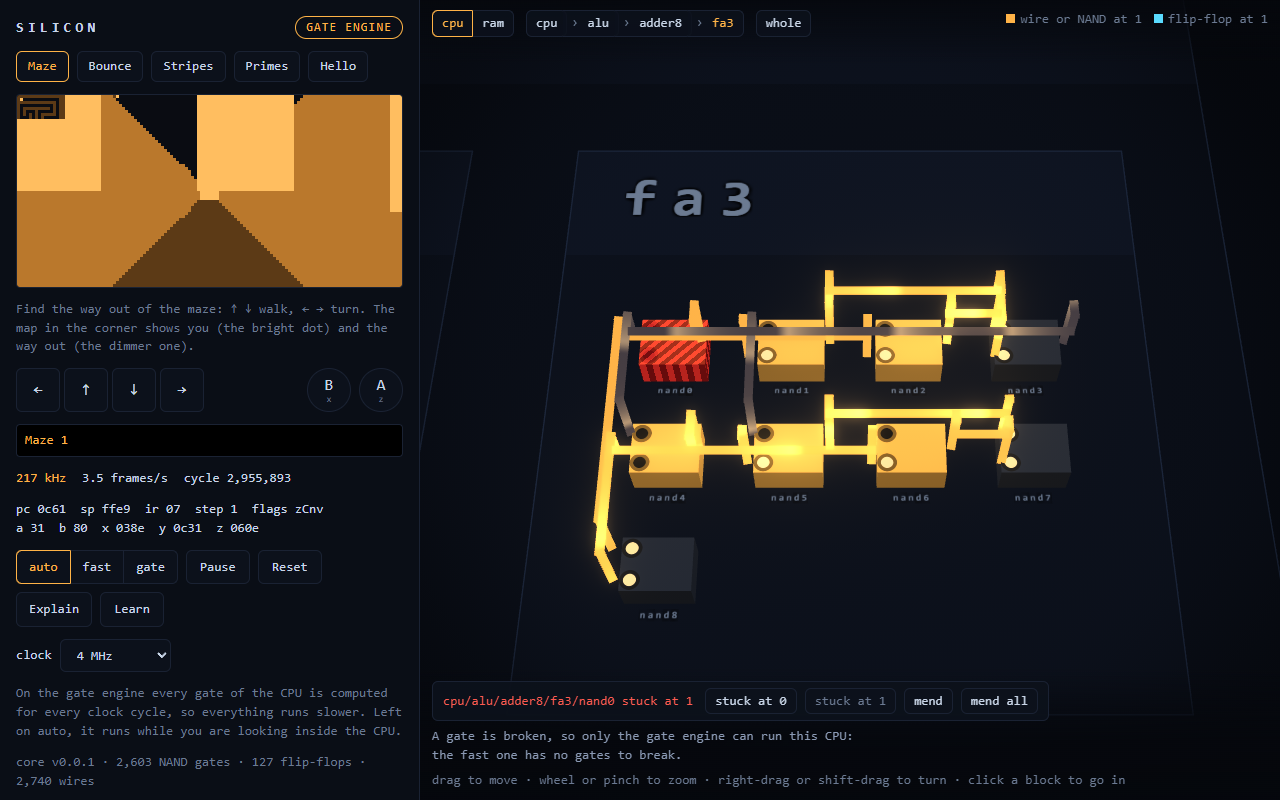
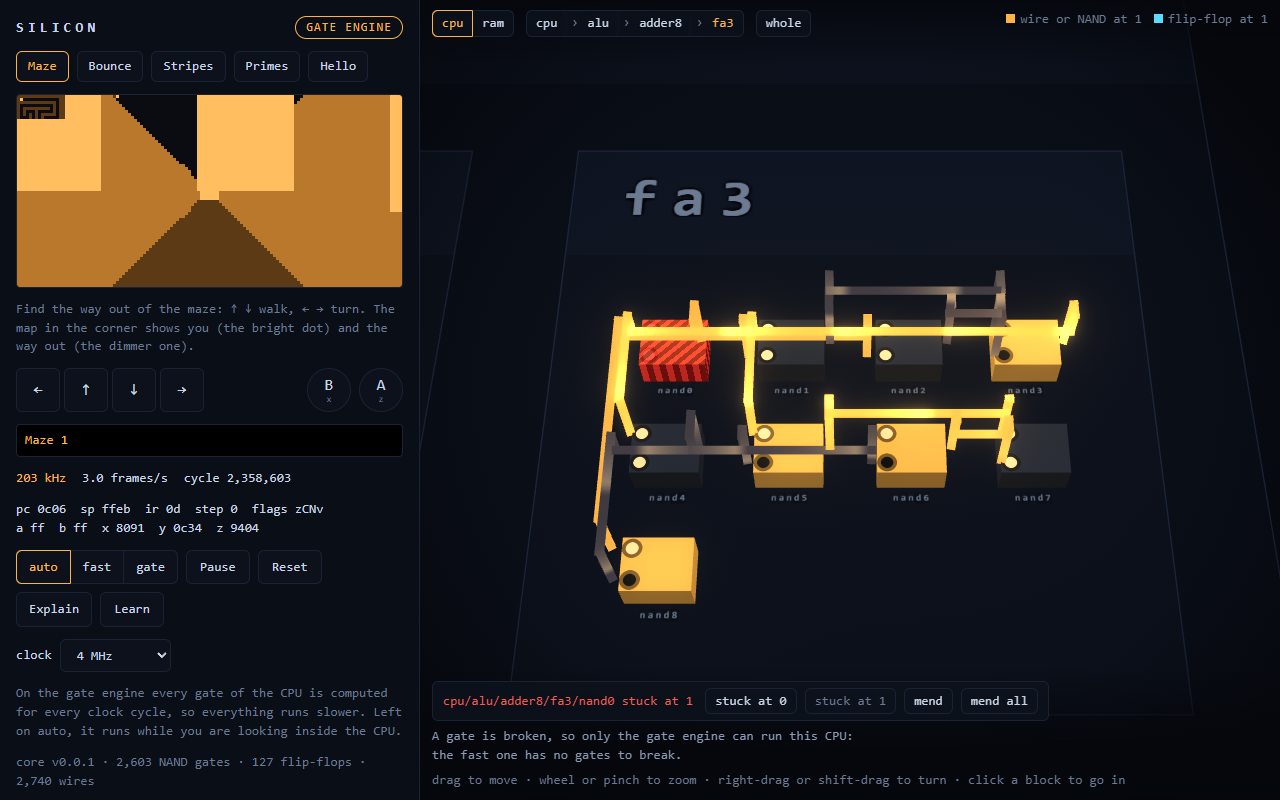
Make the whole CPU readable from afar, and spare slow cards the glow
Seen whole, the CPU was a tangle of wires that hid its own blocks, worst
on a phone, where it is the first thing on the page. A wire thinner than
the pixel-wide ribbon drawn for it now covers only its share of that
ribbon, and its light likewise: from afar the wires are faint traces with
pulses moving along them, and the blocks and their names are what is
seen. From close nothing changes.

The glow was measured on one good graphics card only. The page now
watches the pace of its pictures and turns the glow off, saying so, if
half of 45 in a row take over 40 ms (scene/pace.ts, tested; checked in
Chrome with the processor slowed forty times). ?glow=on keeps it, which
the script that makes the README's animation uses.

PROGRESS records what was driven in Firefox and WebKit today and what is
still unverified, and its list of limitations no longer names things that
were built since. shots.mjs also takes the repository's social preview.

diff --git a/web/src/scene/view.ts b/web/src/scene/view.ts
@@ -474,6 +474,8 @@ const WIRE_FRAGMENT = /* glsl */ `
   varying float vPhase;
   varying float vWide;
   const vec3 HOT = vec3(1.0, 0.80, 0.46);
+  // The least a wire covers of the ribbon drawn for it, however thin it is.
+  const float COVER_LEAST = 0.1;
   void main() {
     bool driven = vAlong.x >= 0.0;
     // While a step is played back: gate delays since the turn of the gate
@@ -487,8 +489,6 @@ const WIRE_FRAGMENT = /* glsl */ `
     // A wire that has been switching is a little brighter all along,
     // whatever its level this instant.
     if (reached) colour += vec3(0.95, 0.50, 0.12) * vBusy * 0.3;
-    // One too thin to be seen properly sinks towards the floor instead of sparkling.
-    colour = mix(vec3(0.05, 0.07, 0.11), colour, mix(0.45, 1.0, vCover));
 
     // Light given off, brighter than the picture's white so that it glows.
     float light = 0.0;
@@ -512,9 +512,14 @@ const WIRE_FRAGMENT = /* glsl */ `
     }
     // A wire seen from close covers many pixels, and so would its light: it
     // is given off per length of wire, not per pixel of picture.
-    colour += HOT * light * mix(0.5, 1.0, vCover) * mix(1.0, 0.24, smoothstep(1.5, 9.0, vWide));
-    // A wire thinner than the pixel-wide ribbon drawn for it covers a part of it only.
-    gl_FragColor = vec4(stale(colour), vAlpha * mix(0.55, 1.0, vCover));
+    vec3 given = HOT * light * mix(1.0, 0.24, smoothstep(1.5, 9.0, vWide));
+    // A wire thinner than the pixel-wide ribbon drawn for it covers only a
+    // part of that ribbon: its colour is laid on by that much, and its
+    // light, a little more generously, likewise. So from afar, where a
+    // thousand wires cross the picture, they are faint traces and what is
+    // seen is what moves along them; from close they are solid.
+    float cover = vAlpha * max(vCover, COVER_LEAST);
+    gl_FragColor = vec4(stale(colour * cover + given * vAlpha * mix(0.3, 1.0, vCover)), cover);
   }
 `;
 
@@ -920,7 +925,13 @@ export class SceneView {
       // readable where a wire crosses a name.
       add(
         geometry,
-        material(WIRE_VERTEX, WIRE_FRAGMENT, { side: THREE.DoubleSide, transparent: true, depthWrite: false }),
+        // (The shader gives colour already multiplied by how much of the pixel it covers.)
+        material(WIRE_VERTEX, WIRE_FRAGMENT, {
+          side: THREE.DoubleSide,
+          transparent: true,
+          premultipliedAlpha: true,
+          depthWrite: false,
+        }),
         3.5,
       );
     }
@@ -965,9 +976,15 @@ export class SceneView {
     this.mark.visible = false;
   }
 
+  /**
+   * Draw what gives off light with a glow around it, where the graphics
+   * driver can. Turned off, the scene is drawn straight to the screen.
+   */
+  glow = true;
+
   /** Is what gives off light drawn with a glow around it? */
   get glows(): boolean {
-    return this.bloom !== undefined;
+    return this.bloom !== undefined && this.glow;
   }
 
   /** Is something in the picture moving by itself, so that it must be drawn again? */
@@ -1146,11 +1163,12 @@ export class SceneView {
     }
 
     const timed = this.beginTiming();
-    if (this.bloom) {
+    if (this.bloom && this.glow) {
       this.renderer.setRenderTarget(this.bloom.scene);
       this.renderer.render(this.scene, this.eye);
       this.bloom.render(GLOW);
     } else {
+      this.renderer.setRenderTarget(null);
       this.renderer.render(this.scene, this.eye);
     }
     if (timed) this.endTiming();

diff --git a/web/src/scene/pace.test.ts b/web/src/scene/pace.test.ts
@@ -1,0 +1,56 @@
+import { describe, expect, it } from 'vitest';
+import { Pace, PACE_WINDOW, PAUSE_MS, SLOW_MS } from './pace';
+
+/** Draw `count` pictures `gap` ms apart, starting at `from`; the times at which the pace said "slow". */
+function draw(pace: Pace, from: number, gap: number, count: number): number[] {
+  const told: number[] = [];
+  for (let i = 0; i < count; i++) if (pace.drew(from + i * gap)) told.push(i);
+  return told;
+}
+
+describe('the pace of the pictures', () => {
+  it('is never slow at sixty or at thirty pictures a second', () => {
+    expect(draw(new Pace(), 0, 16.7, 1000)).toEqual([]);
+    expect(draw(new Pace(), 0, 33.4, 1000)).toEqual([]);
+  });
+
+  it('is slow, once, after a window of slow pictures', () => {
+    // The first picture has none before it: the window is full one later.
+    expect(draw(new Pace(), 0, SLOW_MS + 20, 500)).toEqual([PACE_WINDOW]);
+  });
+
+  it('is not slow for a few hitches among quick pictures', () => {
+    const pace = new Pace();
+    let now = 0;
+    let told = false;
+    for (let i = 0; i < 600; i++) {
+      now += i % 5 === 0 ? 120 : 16.7;
+      told ||= pace.drew(now);
+    }
+    expect(told).toBe(false);
+  });
+
+  it('takes a long gap for a pause, and starts again after it', () => {
+    const pace = new Pace();
+    // Slow pictures, but never a whole window of them between two pauses.
+    let now = 0;
+    let told = false;
+    for (let burst = 0; burst < 20; burst++) {
+      for (let i = 0; i < PACE_WINDOW - 1; i++) told ||= pace.drew((now += SLOW_MS + 30));
+      now += PAUSE_MS + 1;
+    }
+    expect(told).toBe(false);
+    // Left to draw without a pause, the same pictures are found slow.
+    expect(draw(pace, now, SLOW_MS + 30, 200).length).toBe(1);
+  });
+
+  it('becomes slow when quick pictures turn slow', () => {
+    const pace = new Pace();
+    expect(draw(pace, 0, 16.7, 300)).toEqual([]);
+    const told = draw(pace, 300 * 16.7, 80, 200);
+    expect(told.length).toBe(1);
+    // Once more than half the window is slow.
+    expect(told[0]).toBeGreaterThan(PACE_WINDOW / 2 - 2);
+    expect(told[0]).toBeLessThan(PACE_WINDOW);
+  });
+});

diff --git a/web/src/main.ts b/web/src/main.ts
@@ -28,6 +28,7 @@ import { gateCountText } from './scene/labels';
 import { GATE_TOP, gateRect, rectOf } from './scene/layout';
 import { focusModule } from './scene/lod';
 import { Navigator } from './scene/navigator';
+import { Pace } from './scene/pace';
 import type { Hit } from './scene/pick';
 import { engineFor, engineNote, parseEngineMode, samplingFor, type EngineMode } from './scene/policy';
 import { gatePath, moduleAt, resolvePath } from './scene/tree';
@@ -75,10 +76,14 @@ interface Scene {
   levels: () => Uint8Array | undefined;
 }
 /**
- * What gives off light is drawn with a glow around it, unless the link says
- * not to (`?glow=off`, for a graphics card that finds it heavy).
+ * What gives off light is drawn with a glow around it. A graphics card that
+ * finds it heavy is spared it: the page watches the pace of its pictures
+ * and turns the glow off if they come slowly. A link can settle it either
+ * way: `?glow=off`, `?glow=on`.
  */
 const GLOW = link.get('glow') !== 'off';
+const pace = link.get('glow') === 'on' || !GLOW ? undefined : new Pace();
+document.body.dataset.glow = GLOW ? 'on' : 'off';
 /** The CPU. */
 let scene: Scene | undefined;
 /** The memory made of gates. */
@@ -375,6 +380,13 @@ function frame(now: number): void {
       // For the page checks: whether a step is being played back.
       if (current.view.replaying) document.body.dataset.replay = '';
       else delete document.body.dataset.replay;
+      if (current.view.glows && pace?.drew(now)) {
+        // Too slow with the glow: without it from here on, and say so.
+        for (const each of [scene, ramScene]) if (each) each.view.glow = false;
+        document.body.dataset.glow = 'off';
+        el('status').textContent += ' · glow off: the pictures were coming slowly (?glow=on keeps it)';
+        stale = true;
+      }
     }
   }
   requestAnimationFrame(frame);

diff --git a/web/src/scene/pace.ts b/web/src/scene/pace.ts
@@ -1,0 +1,44 @@
+/**
+ * Whether pictures are coming too slowly. The glow costs the graphics card
+ * a few milliseconds a picture on a card made for it, and far more on one
+ * that is not; where it makes the scene stutter, the scene is better
+ * without it. This watches the time between pictures and says, once, that
+ * they are slow.
+ *
+ * The page only draws when there is something new to show, so a long gap
+ * between two pictures is a pause, not a slow picture, and is left out.
+ */
+
+/** Pictures looked at before deciding. */
+export const PACE_WINDOW = 45;
+/** Slow: half of them took longer than this, in milliseconds (25 pictures a second). */
+export const SLOW_MS = 40;
+/** A gap longer than this, in milliseconds, is the page having had nothing to draw. */
+export const PAUSE_MS = 400;
+
+export class Pace {
+  private readonly gaps: number[] = [];
+  private last = -1;
+  private told = false;
+
+  /**
+   * A picture was drawn at `now` (milliseconds). True the one time the last
+   * `PACE_WINDOW` pictures in a row are found slow.
+   */
+  drew(now: number): boolean {
+    const gap = this.last < 0 ? -1 : now - this.last;
+    this.last = now;
+    if (this.told || gap < 0) return false;
+    if (gap > PAUSE_MS) {
+      // What came before the pause says nothing about what comes after it.
+      this.gaps.length = 0;
+      return false;
+    }
+    this.gaps.push(gap);
+    if (this.gaps.length < PACE_WINDOW) return false;
+    const median = [...this.gaps].sort((a, b) => a - b)[PACE_WINDOW >> 1]!;
+    this.gaps.shift();
+    this.told = median > SLOW_MS;
+    return this.told;
+  }
+}

diff --git a/docs/PROGRESS.md b/docs/PROGRESS.md
@@ -55,6 +55,30 @@ Done (2026-11-17): **the look of the scene**, ADR 0016.
   graphics card a picture with the glow, 0.2 ms of the main thread.
 - Tests: Rust 297, Vitest 144, page checks 17; fmt, clippy, typecheck clean.
 
+Done after that, the same day:
+
+- **The whole CPU from afar is readable.** A wire thinner than the
+  pixel-wide ribbon drawn for it now covers only its share of that ribbon,
+  and its light likewise: the thousand wires between the blocks are faint
+  traces with pulses moving along them, and the blocks and their names are
+  what is seen. From close nothing changes. It matters most on a phone,
+  where the first picture was an orange tangle.
+- **The glow turns itself off where it is heavy** (`scene/pace.ts`, tested):
+  if half of 45 pictures in a row take over 40 ms, the scene is drawn
+  without it from then on and the page says so. `?glow=on` keeps it,
+  `?glow=off` never starts it. Checked by slowing the page's processor
+  forty times in Chrome: off after a few seconds; at full speed it stays on.
+- **Other browsers, driven for real** (Playwright with its Firefox and
+  WebKit, installed outside the repository): eleven steps each on Firefox,
+  WebKit, and WebKit as an iPhone 13 with touch. Every program runs, keys
+  move the game, a link leads to a gate, the wheel zooms, a click or a tap
+  flies into a block, a step is played back, a gate is broken and mended,
+  the memory writes and reads, the tour walks to its end, nothing is wider
+  than the window. All pass, with the glow, and nothing on the console.
+  Not the same as Safari on a real iPhone: see the limitations.
+- CI passed on Linux for the commit before this one, with the two new
+  page checks in software rendering.
+
 What follows is the note of 2026-11-15, kept for the record of what was
 tried:
 
@@ -310,6 +334,8 @@ Each has a regression test.
 
 ## Known limitations
 
+As of 2026-11-17.
+
 - **Compiled code is naive.** Every use of a variable is a load from the
   stack; there is no register allocation. Enough for the game's logic (3%
   of a frame), not for inner loops, which is what `asm { … }` is for.
@@ -319,29 +345,18 @@ Each has a regression test.
   moves but the player. 256 levels, then they repeat.
 - On the gate engine a level change takes about three seconds (the shutter
   is paced by counting) and digging a maze a third of a second.
-- **The page check is still an ad-hoc script outside the repository.** It
-  has now found a class of bug the test suite could not see. It belongs in
-  the repository and in CI (Playwright, M4).
 - The page has no source or disassembly view. The toolchain already
   produces the map from addresses to source lines (`Assembly::lines`).
 - State reaches the page by copying (ADR 0004's fallback path); the
-  `SharedArrayBuffer` path is not implemented.
-- No wire-activity buffer: the gate view shows the level at the instant of
-  each frame, which at 270 kHz is a sample, not everything that happened.
-- The gate view is a flat grid; its labels overlap on a phone. No zoom, no
-  wires drawn, no hierarchy: M4.
-- Engine switching is manual. Switching by camera distance arrives with M4.
-
-## Next: M4
-
-1. Prototype the hierarchical scene and the LOD cross-fade on a synthetic
-   module tree before anything else (risk 1).
-2. Layout from the module tree: deterministic packing, hints for the top
-   levels. Camera-relative rendering.
-3. Wires as an instanced mesh; the wire-activity buffer in the worker.
-4. Engine switching by camera distance.
-5. Playwright: the checks of the ad-hoc script (loads, every program runs,
-   the screen is still while nothing is held, no console errors), in CI.
+  `SharedArrayBuffer` path is not implemented. The copy is about 25 kB a
+  frame and has never shown up in a measurement.
+- The wires are a drawing of what is joined to what, not a routed chip:
+  wires of the same layer cross and overlap (`route.ts`).
+- From afar on `auto`, the wires show a sample of 256 clock cycles of every
+  frame, not all of them (ADR 0016); the page says so.
+- **Not verified:** Safari itself on a Mac or an iPhone, and a real touch
+  screen (a pinch with two fingers). Firefox and WebKit were driven on
+  Windows, with a touch screen emulated (see M6).
 
 ## Earlier milestones
 
@@ -404,7 +419,7 @@ Each has a regression test.
    before polishing anything. The state path (instancing + wire texture) is
    already proven on the real CPU.
 2. **What only a browser shows.** Twice the page had faults no test saw (M3: flicker, a squeezed panel). `pnpm check` now runs in CI; a fault it does not look for still needs `look.mjs` and an eye.
-3. **Cross-browser WASM/worker behaviour** (Safari, Firefox). Untested.
+3. **Cross-browser WASM/worker behaviour.** Firefox and WebKit pass when driven by a script (M6); Safari on Apple hardware is still untried.
 4. **Engine switch correctness.** Covered by the no-hidden-state test,
    cycle-level lockstep on random programs and on every real one,
    swap-at-every-cycle and switching mid-game. Residual risk is in the

diff --git a/docs/adr/0016-light-is-a-fact-about-the-simulation.md b/docs/adr/0016-light-is-a-fact-about-the-simulation.md
@@ -82,10 +82,26 @@ person could see).
   altogether as they grow wider than a few pixels.
 - Letters carry a dark shadow, taken from a smaller copy of the glyph sheet,
   so that a name stays readable where bright wires pass under it.
-- A wire thinner than the pixel-wide ribbon drawn for it is drawn as
-  covering only a part of that ribbon.
+- A wire thinner than the pixel-wide ribbon drawn for it covers only its
+  share of that ribbon, and its light likewise (the shader's colour is
+  multiplied by the cover, and blended as such). From afar, where a
+  thousand wires cross the picture, they are faint traces and what is seen
+  is what moves along them; from close they are solid. Drawn at full
+  strength, the whole CPU was a tangle that hid its own blocks, worst on a
+  phone.
 - The scene darkens towards its top and bottom edges under the words that
   lie over it there.
+
+### 6. The glow goes where it is too heavy
+The page watches the time between its pictures (`pace.ts`). If half of 45
+in a row take more than 40 ms, the glow is turned off for good and the page
+says so; a gap of more than 400 ms is the page having had nothing to draw,
+and is not counted. A link settles it either way: `?glow=off`, `?glow=on`.
+
+Rejected: asking the graphics card how long it took (the timer query exists
+in Chrome only, and what matters is the pace the person sees, whatever the
+cause); lowering the resolution first (a second thing to tune, for a
+decoration).
 
 ## Consequences
 - Every light can be traced to a number from the simulation: a level, an

diff --git a/README.md b/README.md
@@ -115,7 +115,7 @@ programs/*.c, *.asm ──cc──► assembly ──asm──► ROM        (cr
 | The maze game | 45 frames/s at the nominal 4 MHz; 2–3 frames/s on the gates |
 | The game's ROM | 4.8 KiB of 32 |
 | A picture of the scene | 0.2 ms of main-thread time; 2.7 ms of the graphics card's with the glow (RTX 5060 Ti, 1280×800) |
-| Tests | 297 in Rust, 144 in Vitest, 17 checks of the built page in a real Chrome |
+| Tests | 297 in Rust, 149 in Vitest, 17 checks of the built page in a real Chrome |
 
 ## Run it
 
@@ -129,7 +129,8 @@ pnpm dev                 # builds the WebAssembly core, starts the dev server
 
 Then pick a program, use the arrow keys, and scroll into the CPU. Links can
 say where to look: `?at=cpu/alu/adder8/fa3`, `?program=bounce&engine=gate`,
-`?view=ram`.
+`?view=ram`. The glow turns itself off on a graphics card that finds it
+heavy; `?glow=off` and `?glow=on` settle it by hand.
 
 ```sh
 cargo test --workspace   # the hardware, both engines, the toolchain, the programs

diff --git a/docs/ARCHITECTURE.md b/docs/ARCHITECTURE.md
@@ -273,6 +273,7 @@ only `view.ts` touches WebGL.
 | `policy.ts` | which engine the view asks for |
 | `replay.ts` | where the playback of a single step begins and ends, in logic depth |
 | `bloom.ts` | the glow: whatever a shader drew brighter than white, blurred into a halo |
+| `pace.ts` | whether pictures are coming too slowly for the glow |
 | `view.ts` | ten draw calls and two state textures |
 
 - **Level of detail by projected size**, continuous: a module's lid fades as
